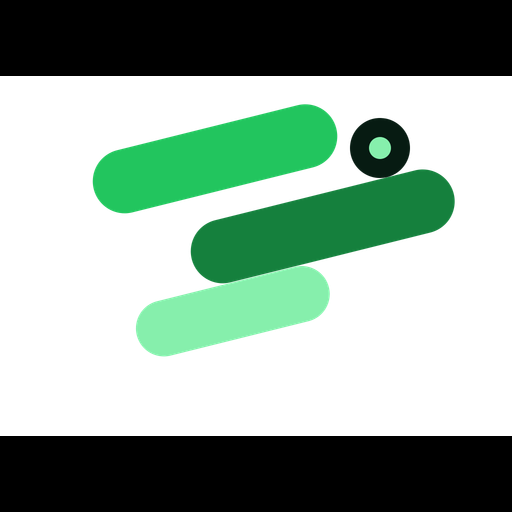
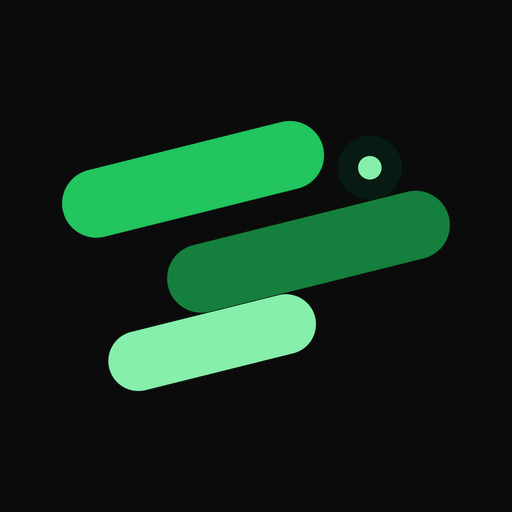
feat(brand): 页头改用透明横标并去掉廉价方框
黑底源图抠透明后做横构图页头标；系统图标仍用深底方标。
字标改为「生图 · 对话」，小屏也显示店名。

diff --git a/scripts/generate-icons.js b/scripts/generate-icons.js
@@ -1,6 +1,9 @@
 /**
- * 从 frontend/brand-maixun.png 生成 PWA 所需的各尺寸图标
+ * 从 frontend/brand-maixun.png 生成页头横标与 PWA 方标。
  * 用法: node scripts/generate-icons.js
+ *
+ * 源图是黑底横构图：先把近黑抠成透明并裁到图形包围盒，
+ * 页头用透明横标；系统图标再放到深底正方形上。
  */
 const path = require('path');
 const fs = require('fs');
@@ -11,7 +14,10 @@ const SRC = path.join(FRONTEND, 'brand-maixun.png');
 const PUBLIC = path.join(FRONTEND, 'public');
 const APP = path.join(FRONTEND, 'src', 'app');
 const sharp = require(require.resolve('sharp', { paths: [FRONTEND, ROOT] }));
-const ICON_BG = { r: 0, g: 0, b: 0, alpha: 1 };
+
+const ICON_BG = { r: 11, g: 11, b: 11, alpha: 1 };
+const BLACK_THRESHOLD = 12;
+const SQUARE_PAD = 0.12;
 
 const tasks = [
     { out: 'icon-192.png', size: 192, maskable: false },
@@ -19,6 +25,66 @@ const tasks = [
     { out: 'icon-maskable-512.png', size: 512, maskable: true },
     { out: 'favicon.png', size: 48, maskable: false },
 ];
+
+async function extractTransparentMark(inputPath) {
+    const { data, info } = await sharp(inputPath).ensureAlpha().raw().toBuffer({ resolveWithObject: true });
+    const { width, height, channels } = info;
+    let minX = width;
+    let minY = height;
+    let maxX = 0;
+    let maxY = 0;
+    for (let i = 0; i < width * height; i += 1) {
+        const o = i * channels;
+        const r = data[o];
+        const g = data[o + 1];
+        const b = data[o + 2];
+        const a = data[o + 3];
+        if (a === 0 || (r <= BLACK_THRESHOLD && g <= BLACK_THRESHOLD && b <= BLACK_THRESHOLD)) {
+            data[o + 3] = 0;
+            continue;
+        }
+        const x = i % width;
+        const y = (i / width) | 0;
+        if (x < minX) minX = x;
+        if (y < minY) minY = y;
+        if (x > maxX) maxX = x;
+        if (y > maxY) maxY = y;
+    }
+    if (maxX < minX || maxY < minY) {
+        throw new Error('未能从源图中提取到非黑色图形');
+    }
+    const pad = 8;
+    const left = Math.max(0, minX - pad);
+    const top = Math.max(0, minY - pad);
+    const cropW = Math.min(width - left, maxX - minX + 1 + pad * 2);
+    const cropH = Math.min(height - top, maxY - minY + 1 + pad * 2);
+    return sharp(data, { raw: { width, height, channels: 4 } })
+        .extract({ left, top, width: cropW, height: cropH })
+        .png();
+}
+
+async function writeSquareIcon(markBuffer, dst, size, maskable) {
+    const padding = Math.round(size * (maskable ? 0.1 : SQUARE_PAD));
+    const inner = Math.max(1, size - padding * 2);
+    const resized = await sharp(markBuffer)
+        .resize(inner, inner, { fit: 'contain', background: { r: 0, g: 0, b: 0, alpha: 0 } })
+        .png()
+        .toBuffer();
+    const meta = await sharp(resized).metadata();
+    const left = Math.round((size - (meta.width || inner)) / 2);
+    const top = Math.round((size - (meta.height || inner)) / 2);
+    await sharp({
+        create: {
+            width: size,
+            height: size,
+            channels: 4,
+            background: ICON_BG,
+        },
+    })
+        .composite([{ input: resized, left, top }])
+        .png()
+        .toFile(dst);
+}
 
 (async () => {
     if (!fs.existsSync(SRC)) {
@@ -29,65 +95,46 @@ const tasks = [
     const srcMeta = await sharp(SRC).metadata();
     console.log(`📐 源图: ${srcMeta.width}x${srcMeta.height}, format=${srcMeta.format}`);
 
-    for (const { out, size, maskable, format } of tasks) {
+    const markPipeline = await extractTransparentMark(SRC);
+    const markBuffer = await markPipeline.toBuffer();
+    const markMeta = await sharp(markBuffer).metadata();
+    console.log(`✂ 横标: ${markMeta.width}x${markMeta.height}`);
+
+    const headerHeight = 128;
+    const headerWidth = Math.round((markMeta.width / markMeta.height) * headerHeight);
+    const brandMarkPath = path.join(PUBLIC, 'brand-mark.png');
+    await sharp(markBuffer)
+        .resize(headerWidth, headerHeight, { fit: 'fill' })
+        .png()
+        .toFile(brandMarkPath);
+    console.log(`✅ brand-mark.png (${headerWidth}x${headerHeight}, 透明横标)`);
+
+    for (const { out, size, maskable } of tasks) {
         const dst = path.join(PUBLIC, out);
-        const isJpeg = format === 'jpeg';
-        const save = (pipeline) => isJpeg ? pipeline.jpeg({ quality: 90 }) : pipeline.png();
-
-        if (maskable) {
-            // maskable 图标: 居中绘制，四周留出 10% 安全区域 padding
-            // safe zone = 80% of total area => padding = 10% on each side
-            const padding = Math.round(size * 0.1);
-            const iconSize = size - padding * 2;
-
-            const resized = await sharp(SRC)
-                .resize(iconSize, iconSize, { fit: 'contain', background: ICON_BG })
-                .png()
-                .toBuffer();
-
-            await save(
-                sharp({
-                    create: {
-                        width: size,
-                        height: size,
-                        channels: 4,
-                        background: ICON_BG,
-                    },
-                }).composite([{ input: resized, left: padding, top: padding }])
-            ).toFile(dst);
-
-            console.log(`✅ ${out} (${size}x${size}, maskable, icon区 ${iconSize}x${iconSize})`);
-        } else {
-            await save(
-                sharp(SRC).resize(size, size, { fit: 'contain', background: ICON_BG })
-            ).toFile(dst);
-
-            console.log(`✅ ${out} (${size}x${size})`);
-        }
+        await writeSquareIcon(markBuffer, dst, size, maskable);
+        console.log(`✅ ${out} (${size}x${size}${maskable ? ', maskable' : ''})`);
     }
 
-    // 同步 favicon 到 Next.js app 目录
     fs.copyFileSync(path.join(PUBLIC, 'favicon.png'), path.join(APP, 'favicon.png'));
     console.log('📋 已同步 src/app/favicon.png');
 
-    // 自动更新 sw.js 中的 revision hash
     const crypto = require('crypto');
     const swPath = path.join(PUBLIC, 'sw.js');
     if (fs.existsSync(swPath)) {
         let sw = fs.readFileSync(swPath, 'utf-8');
-        for (const { out } of tasks) {
+        const hashed = [...tasks.map((item) => item.out), 'brand-mark.png'];
+        for (const out of hashed) {
             const filePath = path.join(PUBLIC, out);
+            if (!fs.existsSync(filePath)) continue;
             const hash = crypto.createHash('md5').update(fs.readFileSync(filePath)).digest('hex');
             const url = `/${out}`;
-            // 替换已有的 revision 条目
-            const re = new RegExp(`\\{url:"${url.replace(/[.*+?^${}()|[\]\\]/g, '\\$&')}",revision:"[a-f0-9]+"\\}`);
+            const re = new RegExp(`\\{url:"${url.replace(/[.*+?^${}()|[\\]\\\\]/g, '\\$&')}",revision:"[a-f0-9]+"\\}`);
             const replacement = `{url:"${url}",revision:"${hash}"}`;
             if (re.test(sw)) {
                 sw = sw.replace(re, replacement);
                 console.log(`🔄 sw.js: ${url} → ${hash}`);
             }
         }
-        // 清理旧的 favicon.jpg 条目（如果还存在）
         sw = sw.replace(/\{url:"\/favicon\.jpg",revision:"[a-f0-9]+"\},?/, '');
         fs.writeFileSync(swPath, sw);
         console.log('✅ sw.js 已更新');

diff --git a/frontend/src/components/workspace/WorkspaceShell.tsx b/frontend/src/components/workspace/WorkspaceShell.tsx
@@ -19,6 +19,7 @@ import { useQueueStatus } from '@/hooks/useQueueStatus';
 import { useWideMode } from '@/hooks/useWideMode';
 import { useServerTaskPolling } from '@/hooks/useServerTaskPolling';
 import { useWorkspaceJobs } from '@/hooks/useWorkspaceJobs';
+import { BrandLockup } from '@/components/workspace/BrandLockup';
 import { WorkspaceHeader, type WorkspaceHeaderRef } from '@/components/workspace/WorkspaceHeader';
 import { WorkspaceModeTabs } from '@/components/workspace/WorkspaceModeTabs';
 import { HistoryJobList, type GenerationHistoryFilter, type HistoryClearScope } from '@/components/workspace/results/HistoryJobList';
@@ -50,7 +51,6 @@ import { cn } from '@/lib/utils';
 import { BA_RANDOM_URL, BING_WALLPAPER_URL } from '@/lib/constants';
 import { EmbedCapabilityNotice } from '@/components/workspace/EmbedCapabilityNotice';
 import { useEmbedRuntime } from '@/hooks/useEmbedRuntime';
-import { withBasePath } from '@/lib/embed/public-path';
 import { isEmbeddedMode } from '@/lib/embed/mode';
 
 export function WorkspaceShell() {
@@ -285,15 +285,7 @@ export function WorkspaceShell() {
                   className="flex items-center gap-2 px-2 pt-3 pb-1 rounded-xl focus-visible:outline-none focus-visible:ring-2 focus-visible:ring-ring"
                   aria-label="麦迅工坊"
                 >
-                  <img
-                    src={withBasePath('/favicon.png')}
-                    alt="麦迅工坊"
-                    className="h-8 w-8 shrink-0 rounded-lg object-cover ring-1 ring-border/60"
-                  />
-                  <div className="min-w-0">
-                    <h2 className="truncate text-base font-semibold tracking-tight leading-tight">麦迅工坊</h2>
-                    <p className="truncate text-[11px] text-muted-foreground leading-tight">生图与 Agent 工作台</p>
-                  </div>
+                  <BrandLockup size="sidebar" />
                 </button>
               )}
               <div className={cn(wideMode ? 'flex flex-col py-4 flex-1' : 'flex flex-col py-1')}>

diff --git a/frontend/src/components/workspace/WorkspaceHeader.tsx b/frontend/src/components/workspace/WorkspaceHeader.tsx
@@ -16,7 +16,7 @@ import {
 import { runImageAction, type ImageActionPayload } from '@/lib/image-actions';
 
 import { BA_RANDOM_URL, BING_WALLPAPER_URL } from '@/lib/constants';
-import { withBasePath } from '@/lib/embed/public-path';
+import { BrandLockup } from '@/components/workspace/BrandLockup';
 
 function getDistance(t1: { clientX: number; clientY: number }, t2: { clientX: number; clientY: number }) {
   return Math.hypot(t2.clientX - t1.clientX, t2.clientY - t1.clientY);
@@ -133,19 +133,11 @@ export const WorkspaceHeader = forwardRef<WorkspaceHeaderRef, WorkspaceHeaderPro
           <button
             type="button"
             onClick={onLogoClick}
-            className="rounded-lg focus-visible:outline-none focus-visible:ring-2 focus-visible:ring-ring focus-visible:ring-offset-2 sm:rounded-xl"
+            className="min-w-0 rounded-lg focus-visible:outline-none focus-visible:ring-2 focus-visible:ring-ring focus-visible:ring-offset-2"
             aria-label="麦迅工坊"
           >
-            <img
-              src={withBasePath('/favicon.png')}
-              alt="麦迅工坊"
-              className="h-8 w-8 flex-shrink-0 rounded-lg object-cover ring-1 ring-border/60 sm:h-11 sm:w-11 sm:rounded-xl"
-            />
+            <BrandLockup size="header" />
           </button>
-          <div className="hidden min-w-0 space-y-1 sm:block">
-            <h1 className="truncate text-2xl font-semibold tracking-tight">麦迅工坊</h1>
-            <p className="text-sm text-muted-foreground">生图与 Agent 工作台</p>
-          </div>
         </div>
 
         {/* ── 按钮 + 状态区域（宽屏 sidebarMode 时隐藏） ── */}

diff --git a/frontend/src/components/workspace/BrandLockup.tsx b/frontend/src/components/workspace/BrandLockup.tsx
@@ -1,0 +1,43 @@
+'use client';
+
+import { withBasePath } from '@/lib/embed/public-path';
+import { cn } from '@/lib/utils';
+
+type BrandLockupSize = 'header' | 'sidebar' | 'compact';
+
+export function BrandLockup({
+  size = 'header',
+  className,
+}: {
+  size?: BrandLockupSize;
+  className?: string;
+}) {
+  const markSrc = withBasePath('/brand-mark.png');
+  const compact = size === 'compact';
+  const sidebar = size === 'sidebar';
+
+  return (
+    <span className={cn('flex min-w-0 items-center', compact ? 'gap-2' : 'gap-2.5', className)}>
+      <img
+        src={markSrc}
+        alt=""
+        className={cn('w-auto shrink-0', compact || sidebar ? 'h-8' : 'h-8 sm:h-10')}
+      />
+      <span className="min-w-0">
+        <span
+          className={cn(
+            'block truncate font-semibold leading-tight',
+            sidebar ? 'text-base' : compact ? 'text-sm' : 'text-base sm:text-[22px]',
+          )}
+        >
+          麦迅工坊
+        </span>
+        {!compact && (
+          <span className={cn('block truncate text-muted-foreground leading-tight', sidebar ? 'text-[11px]' : 'hidden text-[13px] sm:block')}>
+            生图 · 对话
+          </span>
+        )}
+      </span>
+    </span>
+  );
+}
